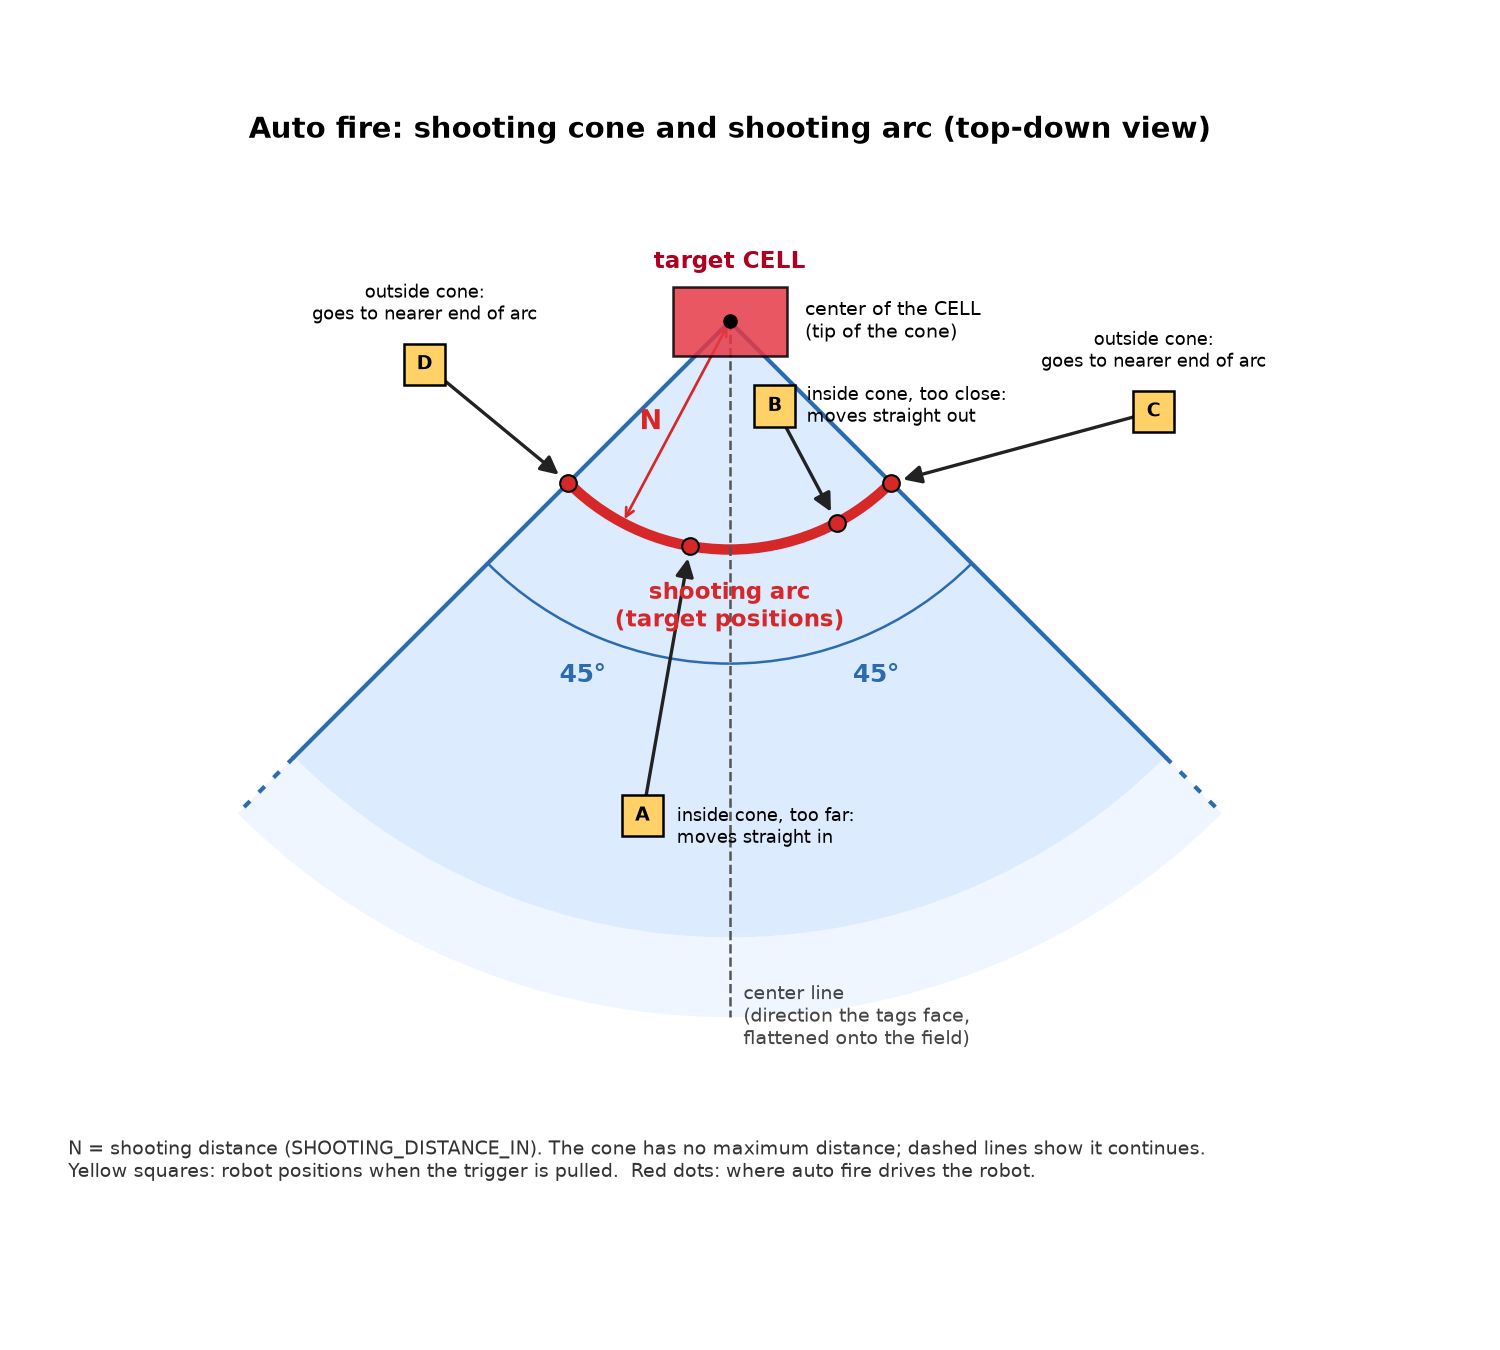
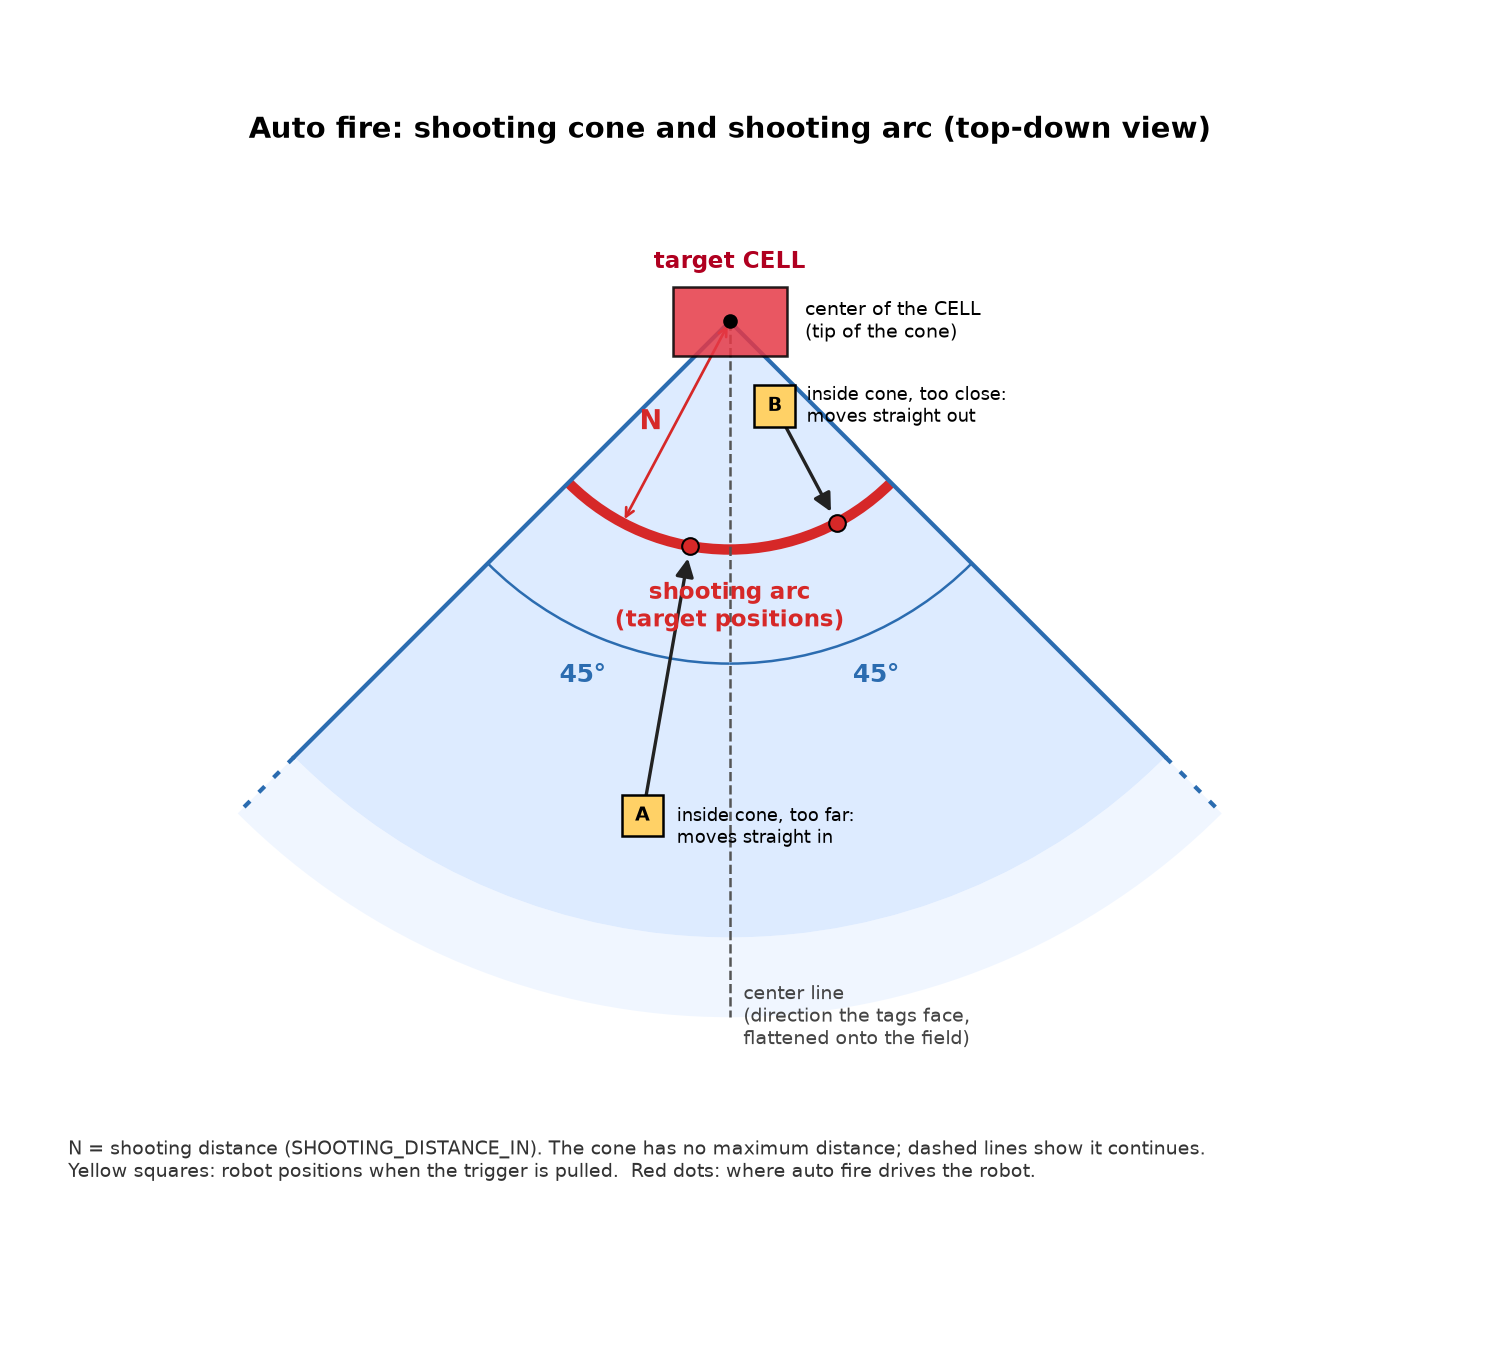
Limit auto fire to the shooting cone and split Hub availability flags

diff --git a/docs/autofire_cone.py b/docs/autofire_cone.py
@@ -62,12 +62,10 @@ ax.text(0, CELL_D / 2 + 0.06, "target CELL", color="#b00020", fontsize=11, ha="c
 ax.plot(0, 0, "ko", ms=6, zorder=5)
 ax.text(CELL_W / 2 + 0.08, 0.0, "center of the CELL\n(tip of the cone)", fontsize=9, va="center")
 
-# Example robots and where auto fire drives them
+# Example robots and where auto fire drives them (starts only inside the cone)
 robots = [
     ("A", (-100, 2.2), (-100, N), "inside cone, too far:\nmoves straight in"),
     ("B", (-62, 0.42), (-62, N), "inside cone, too close:\nmoves straight out"),
-    ("C", (-12, 1.9), (right_edge, N), "outside cone:\ngoes to nearer end of arc"),
-    ("D", (-172, 1.35), (left_edge, N), "outside cone:\ngoes to nearer end of arc"),
 ]
 for name, (ra, rr), (ta, tr), label in robots:
     rxy, txy = pt(ra, rr), pt(ta, tr)
@@ -77,10 +75,8 @@ for name, (ra, rr), (ta, tr), label in robots:
                            edgecolor="black", lw=1.2, zorder=5))
     ax.text(rxy[0], rxy[1], name, fontsize=9, ha="center", va="center", fontweight="bold", zorder=6)
     ax.plot(*txy, "o", color="#d62828", ms=8, markeredgecolor="black", zorder=6)
-    off = {"A": (0.15, -0.05), "B": (0.14, 0.0), "C": (0.0, 0.17), "D": (0.0, 0.17)}[name]
-    ha = "left" if name in ("A", "B") else "center"
-    ax.text(rxy[0] + off[0], rxy[1] + off[1], label, fontsize=8.5, ha=ha,
-            va="bottom" if name in ("C", "D") else "center")
+    off = {"A": (0.15, -0.05), "B": (0.14, 0.0)}[name]
+    ax.text(rxy[0] + off[0], rxy[1] + off[1], label, fontsize=8.5, ha="left", va="center")
 
 ax.text(-2.9, -3.75, "N = shooting distance (SHOOTING_DISTANCE_IN). The cone has no maximum distance; dashed lines show it continues.\n"
         "Yellow squares: robot positions when the trigger is pulled.  Red dots: where auto fire drives the robot.",

diff --git a/TELEOP_TECHNICAL_REQUIREMENTS.md b/TELEOP_TECHNICAL_REQUIREMENTS.md
@@ -151,49 +151,61 @@ intake.setVelocity(0);                                         // released: stop
 ## Auto Fire Availability Notification
 
 ### Requirement
-* The operator must be notified when **auto fire is available**: an alliance has been chosen, the IMU is working, and the target-cell detection gate is passing. The gate passes when at least **X** of the last **Y** camera samples found the target cell's tags (see Design). Pulling the Right Trigger at that moment starts auto fire.
+* The operator must be notified when **auto fire is available**: an alliance has been chosen, the IMU is working, the target-cell detection gate is passing, and the robot is **inside the shooting cone**. Pulling the Right Trigger at that moment starts auto fire.
 * The notification must be obvious during a match without the operator having to look at the Driver Hub.
-* In addition, the Driver Hub must show whether the detection gate is passing and, whenever it is, the last known good geometry from the camera.
+* The Driver Hub must show two separate booleans, so we can tell "we see the tags" apart from "we are in the cone":
+
+| Telemetry line | What it shows |
+|---|---|
+| `TARGET_CELL_IN_VIEW` | `true` when the current camera sample found **at least one** AprilTag (or the cluster) of the target cell. Otherwise `false`. |
+| `AUTO_FIRE_AVAILABLE` | `true` when auto fire can start: alliance chosen, IMU working, detection gate passing, and the robot is inside the shooting cone. Otherwise `false`. |
+
+* The Driver Hub must also show the last known good geometry whenever the detection gate is passing.
 
 ### Design
-* The LED strip flashes quickly while auto fire is available.
+* The LED strip flashes quickly while `AUTO_FIRE_AVAILABLE` is `true`. It does not flash merely because the tags are visible.
 * The Driver Hub telemetry is updated every TeleOp loop with:
 
 | Telemetry line | What it shows |
 |---|---|
-| `TARGET_CELL_IN_VIEW` | `true` when the detection gate is passing (at least X of the last Y samples found the target cell). Otherwise `false`, including when no alliance has been chosen. |
+| `TARGET_CELL_IN_VIEW` | `true` when this sample found at least one tag of the target cell. This is the raw camera result, for debugging. It can flicker when the intake or shooter shakes the webcam. |
+| `AUTO_FIRE_AVAILABLE` | `true` when the robot is inside the shooting cone and auto fire is allowed to start (alliance, IMU, and detection gate). This is what the LED follows. |
 | Detection gate | How many of the last Y samples found the tags, for example `3/5`. |
 | Target geometry | The last known good position (x, y, z) and yaw relative to the center of the target cell, plus the distance and aim angle to it. These are the same values auto fire uses. |
 
-* When `TARGET_CELL_IN_VIEW` is `true`, the geometry lines show the last known good reading. That reading may be from the current sample, or from a recent sample that is still inside the gate.
-* When `TARGET_CELL_IN_VIEW` is `false`, the geometry lines show `--` instead of numbers, so a stale reading that has fallen out of the gate is never shown as current.
+* When the detection gate is passing, the geometry lines show the last known good reading. That reading may be from the current sample, or from a recent sample that is still inside the gate.
+* When the detection gate is not passing, the geometry lines show `--` instead of numbers, so a stale reading is never shown as current.
+* `TARGET_CELL_IN_VIEW` can be `false` while `AUTO_FIRE_AVAILABLE` is still `true`: the current sample missed, but the gate is still passing and the last known good reading puts the robot in the cone. That is expected during a short vibration dropout.
+* `TARGET_CELL_IN_VIEW` can be `true` while `AUTO_FIRE_AVAILABLE` is `false`: we see the target cell, but the robot is outside the cone (or alliance / IMU is missing). Auto fire does not start. The driver must move into the cone.
 
 **Detection gate (X of Y).** Intake and shooter vibration can make the mounted webcam miss tags for a sample or two even when the target cell is still in front of the robot (see Reference: Robot Hardware). To ride through those dropouts, every TeleOp loop records one camera sample:
 
-* A sample is a **hit** if it found the target cell's tags, and a **miss** if it did not.
+* A sample is a **hit** if it found at least one tag of the target cell, and a **miss** if it did not. A hit is what `TARGET_CELL_IN_VIEW` reports.
 * The robot keeps the last **Y** samples, and the last geometry from a hit (the **last known good** reading).
 * The gate **passes** when at least **X** of those Y samples were hits. X and Y are tunable (see Tunable Values).
-* While the gate is passing, the notification stays on and uses the last known good reading, even if the current sample missed.
-* When the gate fails, the notification turns off and the last known good reading is no longer used.
+* `AUTO_FIRE_AVAILABLE` uses the last known good reading to decide whether the robot is inside the cone, and stays `true` through a miss as long as the gate still passes and that reading is still in the cone.
+* When the gate fails, `AUTO_FIRE_AVAILABLE` is `false` and the last known good reading is no longer used.
 
 ---
 
 ## Auto Fire
 
 ### Requirement
-Auto fire is a one-press action. A single pull of the Right Trigger on Gamepad 2 starts the whole sequence: the robot drives itself to a shooting position, aims at the target cell, and keeps shooting until a driver takes over. It doesn't matter whether the trigger is held down or released after the pull.
+Auto fire is a one-press action. A single pull of the Right Trigger on Gamepad 2 starts the whole sequence: the robot drives itself to the shooting distance on the arc, aims at the target cell, and keeps shooting until a driver takes over. It doesn't matter whether the trigger is held down or released after the pull.
 
 The shooter runs at a constant RPM (see Shooter), so shooting from the same distance every time gives a consistent shot. That is why auto fire moves the robot to a fixed distance from the target cell, not just turns it.
 
-* **Starting:** auto fire starts if the detection gate is passing when the trigger is pulled (at least X of the last Y samples found the target cell), wherever the robot is. It then uses the last known good geometry to plan the first move. If the gate is not passing, auto fire does not start and nothing else happens.
-* **Moving:** the robot drives itself to the **closest point on the shooting arc** (defined below) and aims the shooter at the target cell. After each move it checks its position again, and it only shoots once it is at the right distance and aimed.
+The driver is responsible for getting the robot **into the shooting cone**. Auto fire does not drive in from outside the cone, and it does not path around the HIVE frame. Other robots also stay the driver's problem.
+
+* **Starting:** auto fire starts only if `AUTO_FIRE_AVAILABLE` is `true` when the trigger is pulled (inside the cone, detection gate passing, alliance and IMU ready). It then uses the last known good geometry to plan the first move. If `AUTO_FIRE_AVAILABLE` is `false`, auto fire does not start and nothing else happens.
+* **Moving:** the robot drives itself straight in or out to the **shooting arc** (defined below) and aims the shooter at the target cell. After each move it checks its position again, and it only shoots once it is at the right distance and aimed.
 * **Shooting:** the robot shoots repeatedly, one ball at a time, until manual input is received.
 * **Manual input ends auto fire.** Manual input is any button press, trigger pull, or joystick movement on **either Gamepad 1 or Gamepad 2**, except the Right Trigger on Gamepad 2. A small deadzone applies to joysticks and triggers so stick drift doesn't count as input. Manual input ends auto fire at any point in the sequence.
-* **Losing the target:** if the detection gate is not passing when the robot checks its position (at the start, or after a move), auto fire ends.
-* **When auto fire ends**, for any reason: the robot stops moving, the hopper stops, the shooter keeps spinning, and normal control returns to the drivers.
+* **Losing the target or leaving the cone:** if `AUTO_FIRE_AVAILABLE` is `false` when the robot checks its position (at the start, or after a move), auto fire ends. That covers the detection gate failing and the robot no longer being inside the cone.
+* **When auto fire ends**, the hopper stops, the shooter keeps spinning, and normal driver control resumes on the same loop. If the input that ended auto fire is a drive direction (a stick past the deadzone), the drive motors immediately move that way. They are not stopped first. If there is no drive input (the target was lost, or the cancel was a button or trigger), the drive motors stop.
 * **Pulling the trigger again** while auto fire is running does nothing. It neither restarts nor cancels the sequence.
 * Auto fire does not try to detect when the HIVE tips. Once shooting starts, it keeps shooting until manual input.
-* **Obstacles:** auto fire does not avoid obstacles such as the HIVE frame, the downward-facing CELLS, or other robots. The drivers are responsible for watching the robot's path and cancelling auto fire with any manual input if it is about to hit something.
+* **Obstacles:** auto fire's only move is in or out along a line to the cell, while already inside the cone. It does not avoid the HIVE frame, the downward-facing CELLS, or other robots. The drivers watch the path and cancel with any manual input if the robot is about to hit something.
 
 **Shooting cone:** the area of the field from which the robot is allowed to shoot at the target cell.
 
@@ -204,27 +216,26 @@ The shooter runs at a constant RPM (see Shooter), so shooting from the same dist
 
 The cone is measured from the cell's point of view, not the robot's. It doesn't matter which way the robot is facing or where the cell appears in the camera image.
 
-**Shooting arc:** the set of positions auto fire shoots from. It is the curved line inside the shooting cone that is exactly the **shooting distance** from the center of the target cell (the cone's point). Every point on the arc gives the same shot. The closest point on the arc to the robot is found like this:
+**Shooting arc:** the set of positions auto fire shoots from. It is the curved line inside the shooting cone that is exactly the **shooting distance** from the center of the target cell (the cone's point). Every point on the arc gives the same shot.
 
-* **If the robot is inside the cone:** the point on the arc directly toward or away from the cell. The robot moves straight in or out until it is at the shooting distance.
-* **If the robot is outside the cone:** the nearer end of the arc, at the 45-degree edge of the cone.
+Because auto fire only starts inside the cone, the destination is always the point on the arc **directly toward or away from the cell**. The robot moves straight in or out until it is at the shooting distance.
 
 ![Top-down view of the shooting cone and shooting arc, with example robot positions and where auto fire drives each one](docs/images/autofire_cone.png)
 
-*Top-down view. Robots A and B start inside the cone and move straight in or out to the arc. Robots C and D start outside the cone and go to the nearer end of the arc. To redraw this image, run `python docs/autofire_cone.py` (requires matplotlib).*
+*Top-down view. Auto fire only starts inside the cone. Robot A is too far and moves straight in to the arc. Robot B is too close and moves straight out. To redraw this image, run `python docs/autofire_cone.py` (requires matplotlib).*
 
 ### Design
 Auto fire works in rounds of **measure, then move**. The camera is used only while the robot is stopped. Each move follows a movement plan calculated from the last measurement, using the IMU and the drive wheel encoders; the camera is not checked during the move. Road Runner and path following are not used.
 
 Auto fire runs these steps:
 
-1. **Check the target.** If the detection gate is not passing, auto fire ends. If it is passing, use the last known good geometry. That geometry is refreshed whenever a sample finds the tags, and is reused on a miss as long as the gate still passes.
+1. **Check the target.** If `AUTO_FIRE_AVAILABLE` is `false` (detection gate not passing, or the last known good reading is no longer inside the cone), auto fire ends. Otherwise use the last known good geometry. That geometry is refreshed whenever a sample finds the tags, and is reused on a miss as long as the gate still passes.
 2. **Measure.** Read the last known good geometry of the target cell: the robot's position (x, y, z) and yaw relative to the center of the target cell (see Cell center below). The position is used for the shooting arc, and the height is used to confirm the cell is upward-facing (see Target Cell).
 3. **Check the position.** If the robot is in position, shoot: stop the drive motors and step the hopper 180 degrees at a time until manual input is received. Otherwise, go to step 4. The robot is in position when all of these are true:
    * the distance to the cell's center is within `DISTANCE_TOLERANCE_IN` of `SHOOTING_DISTANCE_IN`;
    * the aim (where the shooter points compared with the direction to the cell's center, including `AIM_OFFSET_DEG`) is within `ALIGNMENT_TOLERANCE_DEG`, to either side;
    * the robot is inside the shooting cone.
-4. **Plan and move.** Calculate a movement plan from the robot's current position to the closest point on the shooting arc, ending with the shooter aimed at the cell's center. Carry out the plan:
+4. **Plan and move.** Calculate a movement plan from the robot's current position to the point on the shooting arc directly toward or away from the cell, ending with the shooter aimed at the cell's center. Carry out the plan:
    * **Turning** is controlled by the IMU heading.
    * **Driving and strafing distances** are controlled by the drive wheel encoders.
    * `AIM_OFFSET_DEG` is added to the final aim angle to correct for shots that consistently miss to one side during testing. It starts at 0.
@@ -241,8 +252,8 @@ The shooter is already spinning for the whole match (see Shooter), so auto fire 
 ```mermaid
 stateDiagram-v2
     [*] --> IDLE
-    IDLE --> MEASURING: Right Trigger pulled
-    MEASURING --> IDLE: detection gate not passing
+    IDLE --> MEASURING: Right Trigger pulled and AUTO_FIRE_AVAILABLE
+    MEASURING --> IDLE: AUTO_FIRE_AVAILABLE is false
     MEASURING --> FEEDING: in position
     MEASURING --> MOVING: not in position (plan calculated)
     MOVING --> MEASURING: plan finished
@@ -252,12 +263,12 @@ stateDiagram-v2
 
 | State | What the robot is doing | Leaves when |
 |---|---|---|
-| `IDLE` | Nothing; normal driver control | The Right Trigger is pulled, an alliance is set, and the webcam and IMU are present: go to `MEASURING` |
-| `MEASURING` | Stopped; reads the last known good target-cell geometry (steps 1 to 3) | Detection gate not passing: `IDLE`. In position: `FEEDING`. Otherwise: calculate a plan and go to `MOVING` |
+| `IDLE` | Nothing; normal driver control | The Right Trigger is pulled and `AUTO_FIRE_AVAILABLE` is `true`: go to `MEASURING` |
+| `MEASURING` | Stopped; reads the last known good target-cell geometry (steps 1 to 3) | `AUTO_FIRE_AVAILABLE` is `false`: `IDLE`. In position: `FEEDING`. Otherwise: calculate a plan and go to `MOVING` |
 | `MOVING` | Carrying out the movement plan (step 4), without checking the camera | Plan finished: `MEASURING`. Manual input: `IDLE` |
 | `FEEDING` | Stopped; stepping the hopper 180 degrees at a time | Manual input: `IDLE` |
 
-Manual input sends any state back to `IDLE`. Every return to `IDLE` stops the drive motors and the hopper and leaves the shooter running.
+Manual input sends any state back to `IDLE`. Every return to `IDLE` stops the hopper and leaves the shooter running. Drive is handed back to Gamepad 1 on that same loop: if a stick is already held, the robot starts moving in that direction immediately. The drive motors are only stopped when there is no drive input.
 
 **Cell center.** The camera measures the position of the tag cluster, not the center of the cell. The tag cluster is on the bottom face of the cell, so from above it sits close to the cell's center, but the opening of a tilted, upward-facing cell may be a few inches away from it. The center of the cell is found by moving from the tag cluster's position a fixed distance, `CELL_CENTER_OFFSET_IN`, along the cone's center line:
 
@@ -266,6 +277,11 @@ Manual input sends any state back to `IDLE`. Every return to `IDLE` stops the dr
 * All of auto fire's distances, aim angles, and cone checks are measured to the cell's center, not to the tags. Near the edges of the cone, using the tags directly would put the aim off by a few degrees if the offset is several inches.
 
 **Shooting distance.** `SHOOTING_DISTANCE_IN` is measured from the camera to the cell's center. The camera sits about 6 inches behind the shooter (see Reference: Robot Hardware). Because the value is tuned by testing, the offset is absorbed and needs no correction.
+
+**Future improvements.** Not in this TeleOp. Written down so we do not lose the ideas:
+
+1. **Start from outside the cone.** If the tags are visible but the robot is outside the cone, auto fire would drive to the nearer 45-degree end of the shooting arc, then aim and shoot. The driver would no longer have to get into the cone first.
+2. **Path around the HIVE frame.** The frame is a fixed structure. Once we have the target cell's pose, we know where the frame is and could plan a path that goes around it instead of through it. Other robots still cannot be avoided this way; the driver would still cancel if another robot is in the way.
 
 ---
 
